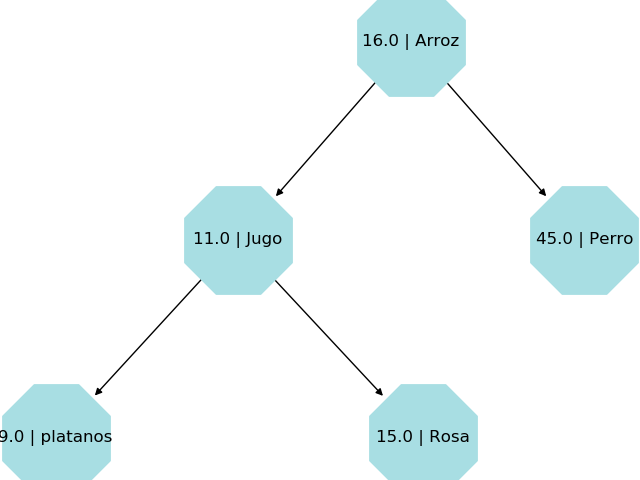
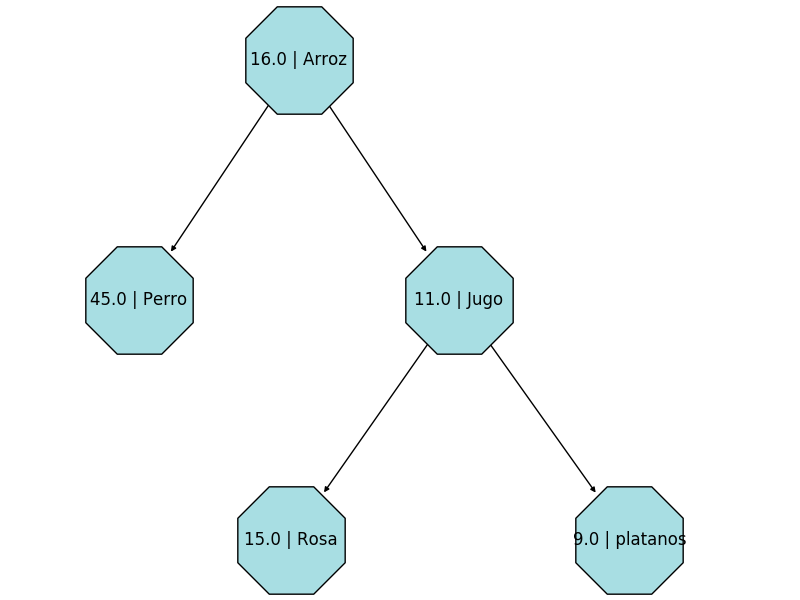
Mapa Funcionando

diff --git a/Unidad I/PAC III 2019/Proyecto 1/Python/Nucleo/Arbol/ABB1.py b/Unidad I/PAC III 2019/Proyecto 1/Python/Nucleo/Arbol/ABB1.py
@@ -5,8 +5,6 @@ import networkx as nx
 from networkx.drawing.nx_agraph import write_dot, graphviz_layout
 import matplotlib.pyplot as plt
 
-G = nx.DiGraph()
-images = plt.figure()
 
 class BST:
     def __init__(self):
@@ -36,36 +34,38 @@ class BST:
                         return True
                     else:
                         return self.addInner(value,name,current.right)
-            return False
+            return False    
 
-    def toMap(self):
-        G.add_node("%s | %s"%(self.root.value, self.root.name))
-        return self.toMapInner(self.root)
-
-    def toMapInner(self,current):
-
-        if current.left:
-            G.add_node("%s | %s"%(current.left.value, current.left.name))
-            G.add_edge("%s | %s"%(current.value,current.name), "%s | %s"%(current.left.value, current.left.name))
-            self.toMapInner(current.left)
-
-        if current.right:
-            G.add_node("%s | %s"%(current.right.value, current.right.name))
-            G.add_edge("%s | %s"%(current.value,current.name), "%s | %s"%(current.right.value, current.right.name))
-            self.toMapInner(current.right)
-
-            
-        return True
 
     def showMapHNL(self):
-        
+        G = nx.DiGraph()
+        images = plt.figure()
 
-        self.toMap()
+        self.toMap(G)
         nlist = [node for node in G.nodes()]
         elist = [edge for edge in G.edges()]
         write_dot(G,'Memoria/test.dot')
         pos = graphviz_layout(G, prog='dot')
-        nx.draw(G,pos, with_labels=True, arrows=True, node_size=2000,node_color='#a8dee3',node_shape='s')
+        nx.draw(G,pos, with_labels=True, arrows=True, node_size=5000,node_color='#a8dee3',node_shape='8')
         #so^>v<dph8
         #plt.show()
         images.savefig("Memoria/BST1.png")
+
+    def toMap(self,G):
+        G.add_node("%s | %s"%(self.root.value, self.root.name))
+        return self.toMapInner(G,self.root)
+
+    def toMapInner(self,G,current):
+
+        if current.left:
+            G.add_node("%s | %s"%(current.left.value, current.left.name))
+            G.add_edge("%s | %s"%(current.value,current.name), "%s | %s"%(current.left.value, current.left.name))
+            self.toMapInner(G,current.left)
+
+        if current.right:
+            G.add_node("%s | %s"%(current.right.value, current.right.name))
+            G.add_edge("%s | %s"%(current.value,current.name), "%s | %s"%(current.right.value, current.right.name))
+            self.toMapInner(G,current.right)
+
+            
+        return True

diff --git a/Unidad I/PAC III 2019/Proyecto 1/Python/main.py b/Unidad I/PAC III 2019/Proyecto 1/Python/main.py
@@ -1,7 +1,6 @@
 # -*- coding: utf8 -*-
-from PyQt5 import uic, QtWidgets, QtGui
+from PyQt5 import uic, QtWidgets
 from PyQt5.QtWidgets import QMessageBox
-from PyQt5.QtGui import QPixmap
 from Nucleo.Interfaz.MainWindow import *
 from Nucleo.Interfaz.AddWindow import *
 from Nucleo.Interfaz.EditWindow import *
@@ -53,8 +52,6 @@ class MainWindow(QtWidgets.QMainWindow,Ui_MainWindow):
     def openTree(self):
         self.bstHNLWin = BST_HNL()
         self.bstUSDWin = BST_USD()
-        self.bstHNLWin.show()
-        self.bstUSDWin.show()
 
     def numProducts(self):
         self.lblCount.setText(str(Queue.length()))
@@ -200,15 +197,15 @@ class BST_HNL(QtWidgets.QMainWindow,Ui_BST_1):
         QtWidgets.QMainWindow.__init__(self)
         self.setupUi(self)
         self.ui=Ui_BST_1()
-        self.center()
 
         self.bstHNL = BST()
         self.arrayPrices()
         self.bstHNL.showMapHNL()
-
-        #pix = (QPixmap('Memoria/BST1.png'))
-        #self.label.setPixmap(pix.scaled(640, 480))
-        #self.label.setGeometry(0,0,640, 480)
+        pix1 = (QPixmap('Memoria/BST1.png'))
+        self.label.setPixmap(pix1.scaled(640, 480))
+        self.label.setGeometry(0,0,640, 480)
+        self.center()
+        self.show()
     
     def arrayPrices(self):
         price= ""
@@ -236,14 +233,15 @@ class BST_USD(QtWidgets.QMainWindow,Ui_BST_2):
         QtWidgets.QMainWindow.__init__(self)
         self.setupUi(self)
         self.ui=Ui_BST_2()
-        self.center()
 
         self.bstUSD = BST1()
         self.arrayPrices1()
         self.bstUSD.showMapUSD()
-
-        
-
+        pix2 = (QPixmap('Memoria/BST2.png'))
+        self.label.setPixmap(pix2.scaled(640, 480))
+        self.label.setGeometry(0,0,640, 480)
+        self.center()
+        self.show()
 
     def arrayPrices1(self):
         price= ""

diff --git a/Unidad I/PAC III 2019/Proyecto 1/Python/Nucleo/Arbol/ABB2.py b/Unidad I/PAC III 2019/Proyecto 1/Python/Nucleo/Arbol/ABB2.py
@@ -51,22 +51,21 @@ class BST1:
         image.savefig("Memoria/BST2.png")
 
 
-
     def toMap1(self,H):
         H.add_node("%s | %s"%(self.root.value, self.root.name))
         return self.toMapInner1(H,self.root)
 
     def toMapInner1(self,H,current):
 
+        if current.right:
+            H.add_node("%s | %s"%(current.right.value, current.right.name))
+            H.add_edge("%s | %s"%(current.value,current.name), "%s | %s"%(current.right.value, current.right.name))
+            self.toMapInner1(H,current.right)
         if current.left:
             H.add_node("%s | %s"%(current.left.value, current.left.name))
             H.add_edge("%s | %s"%(current.value,current.name), "%s | %s"%(current.left.value, current.left.name))
             self.toMapInner1(H,current.left)
 
-        if current.right:
-            H.add_node("%s | %s"%(current.right.value, current.right.name))
-            H.add_edge("%s | %s"%(current.value,current.name), "%s | %s"%(current.right.value, current.right.name))
-            self.toMapInner1(H,current.right)
             
         return True
 

diff --git a/Unidad I/PAC III 2019/Proyecto 1/Python/Nucleo/Interfaz/BST_HNL.py b/Unidad I/PAC III 2019/Proyecto 1/Python/Nucleo/Interfaz/BST_HNL.py
@@ -1,30 +1,22 @@
 # -*- coding: utf-8 -*-
 
-# Form implementation generated from reading ui file 'BST_HNL.ui'
+# Form implementation generated from reading ui file 'BSTHNL.ui'
 #
 # Created by: PyQt5 UI code generator 5.5.1
 #
 # WARNING! All changes made in this file will be lost!
 
 from PyQt5 import QtCore, QtGui, QtWidgets
-from PyQt5.QtWidgets import QLabel
-from PyQt5.QtGui import QPixmap
 
 class Ui_BST_1(object):
     def setupUi(self, BST_1):
         BST_1.setObjectName("BST_1")
         BST_1.resize(640, 480)
         BST_1.setStyleSheet("background-color: rgb(211, 205, 255);")
-    
         self.label = QtWidgets.QLabel(BST_1)
         self.label.setGeometry(QtCore.QRect(0, 0, 640, 480))
-
         self.label.setText("")
         self.label.setObjectName("label")
-
-        pix = (QPixmap('Memoria/BST1.png'))
-        self.label.setPixmap(pix.scaled(640, 480))
-        self.label.setGeometry(0,0,640, 480)
 
         self.retranslateUi(BST_1)
         QtCore.QMetaObject.connectSlotsByName(BST_1)

diff --git a/Unidad I/PAC III 2019/Proyecto 1/Python/Nucleo/Interfaz/BST_USD.py b/Unidad I/PAC III 2019/Proyecto 1/Python/Nucleo/Interfaz/BST_USD.py
@@ -20,9 +20,6 @@ class Ui_BST_2(object):
         self.label.setGeometry(QtCore.QRect(0, 0, 640, 480))
         self.label.setText("")
         self.label.setObjectName("label")
-        pix = (QPixmap('Memoria/BST2.png'))
-        self.label.setPixmap(pix.scaled(640, 480))
-        self.label.setGeometry(0,0,640, 480)
 
         self.retranslateUi(BST_2)
         QtCore.QMetaObject.connectSlotsByName(BST_2)
